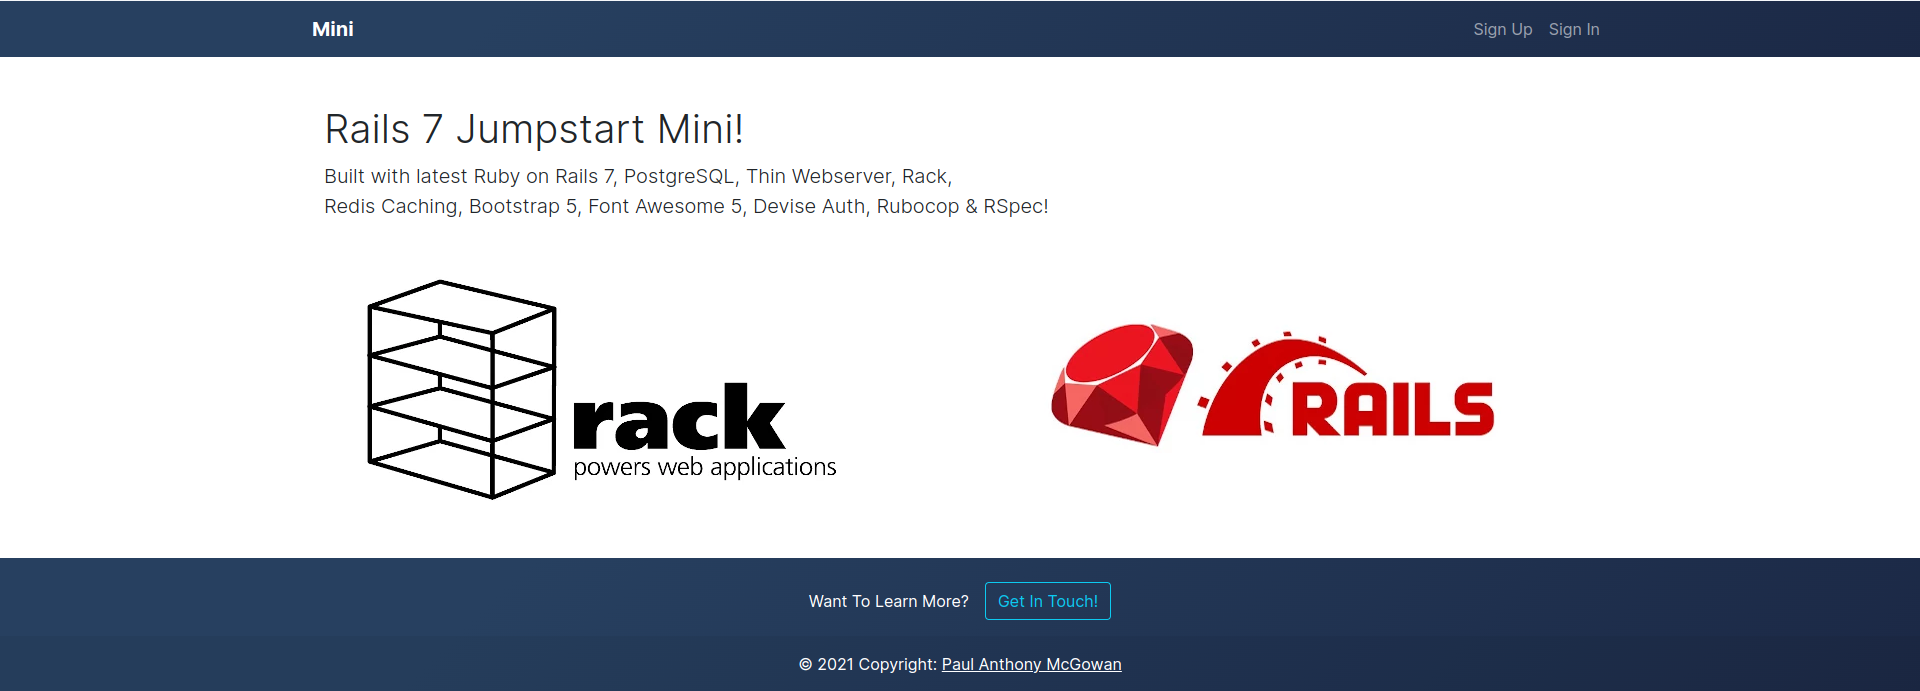
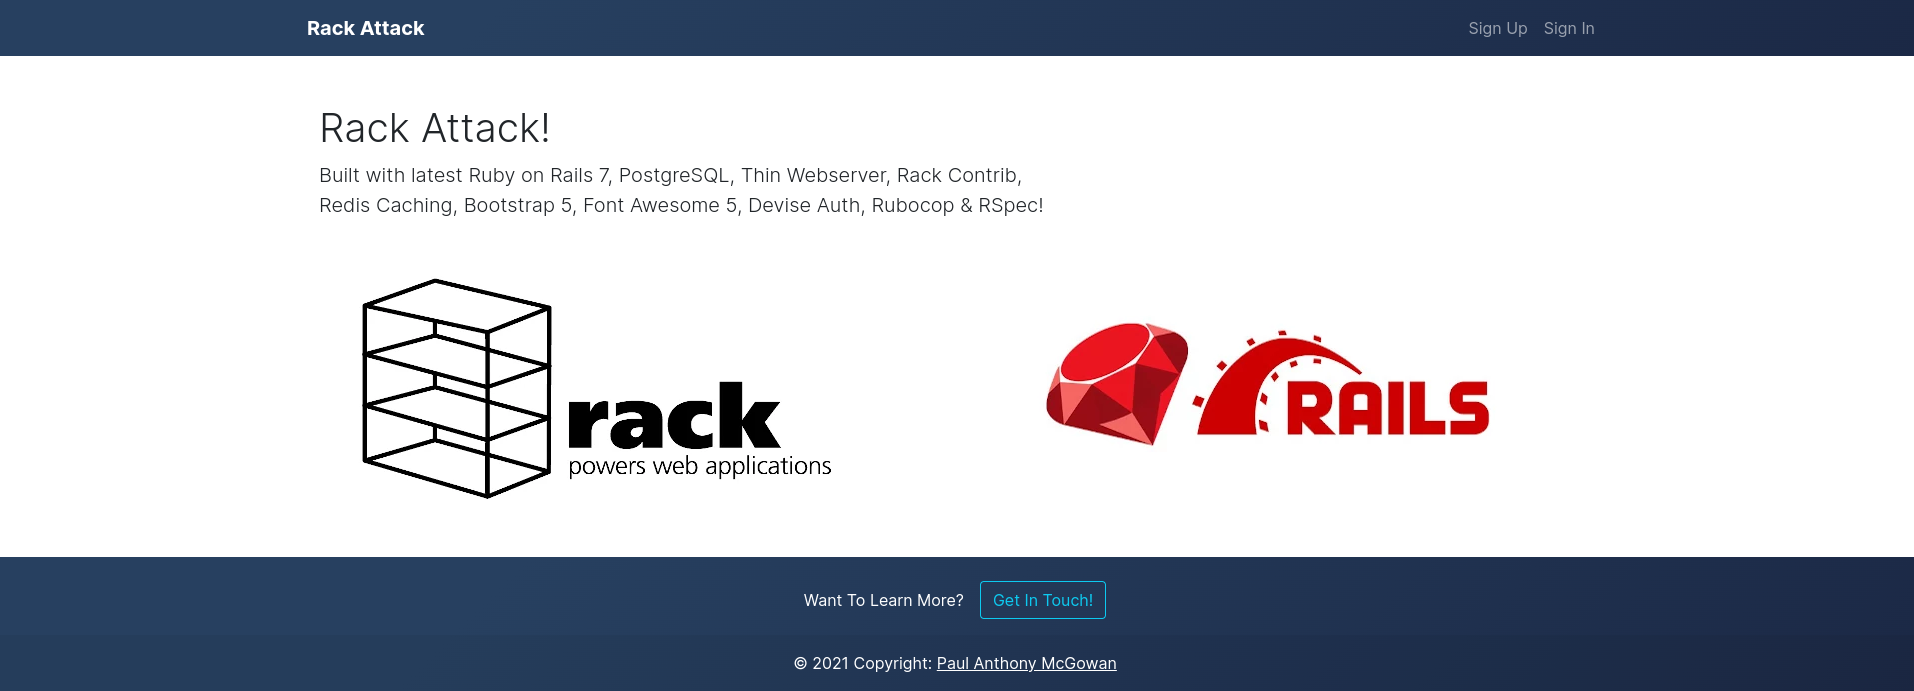
update

diff --git a/config/application.rb b/config/application.rb
@@ -8,7 +8,7 @@ require 'rails/all'
 # you've limited to :test, :development, or :production.
 Bundler.require(*Rails.groups)
 
-module JumpstartMini
+module RackAttack
   class Application < Rails::Application
     # Initialize configuration defaults for originally generated Rails version.
     config.load_defaults 7.0
